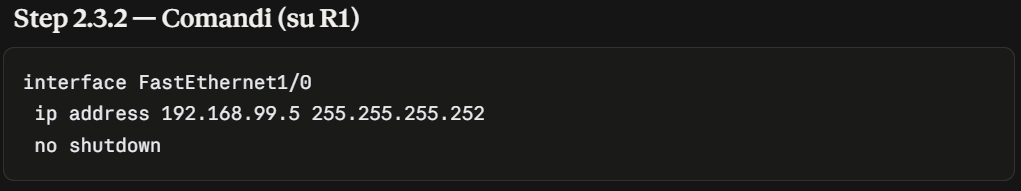
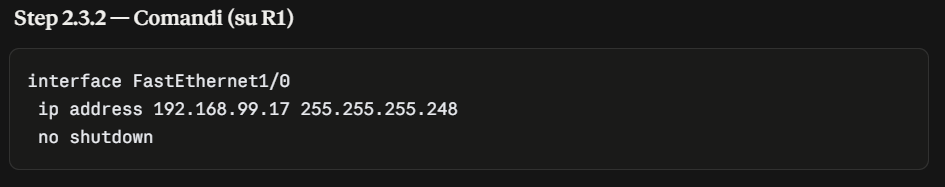
[UPD] fix piano di indirizzamento e configurate le interfacce del router verso i firewall

diff --git a/index.html b/index.html
@@ -176,16 +176,6 @@
                       <td>2</td>
                     </tr>
                     <tr class="vlan-ha">
-                      <td>R1 / R2 ↔ Cluster FortiGate (transito condiviso, via SW-TRANSIT)</td>
-                      <td>—</td>
-                      <td>192.168.99.4/29</td>
-                      <td>255.255.255.248</td>
-                      <td>— (segmento condiviso)</td>
-                      <td>.5 – .10</td>
-                      <td>192.168.99.11</td>
-                      <td>6</td>
-                    </tr>
-                    <tr class="vlan-ha">
                       <td>R1 ↔ R2 (HSRP + backup Internet)</td>
                       <td>—</td>
                       <td>192.168.99.12/30</td>
@@ -194,6 +184,16 @@
                       <td>.13 – .14</td>
                       <td>192.168.99.15</td>
                       <td>2</td>
+                    </tr>
+                    <tr class="vlan-ha">
+                      <td>R1 / R2 ↔ Cluster FortiGate (transito condiviso, via SW-TRANSIT)</td>
+                      <td>—</td>
+                      <td>192.168.99.16/29</td>
+                      <td>255.255.255.248</td>
+                      <td>— (segmento condiviso)</td>
+                      <td>.17 – .22</td>
+                      <td>192.168.99.23</td>
+                      <td>6</td>
                     </tr>
                   </tbody>
                 </table>
@@ -235,7 +235,7 @@
                 <p>
                   <strong>Aggiornamento v1.2</strong>: le due subnet separate
                   riservate a R1↔FW-1 e R2↔FW-2 sono state accorpate in
-                  un'unica subnet condivisa (192.168.99.4/29), a seguito della
+                  un'unica subnet condivisa (192.168.99.16/29), a seguito della
                   scoperta di un vincolo della piattaforma FortiGate: in un
                   cluster HA (FGCP), la configurazione delle interfacce —
                   incluso l'indirizzo IP — è sincronizzata identica su
@@ -244,10 +244,10 @@
                   segmenti fisici separati. La soluzione adottata introduce
                   uno switch dedicato (SW-TRANSIT) a cui si collegano entrambi
                   i nodi del cluster FortiGate ed entrambi i router, così
-                  l'unico IP sincronizzato del cluster (192.168.99.6) risulta
-                  raggiungibile da entrambi (R1 = .5, R2 = .9) sullo stesso
+                  l'unico IP sincronizzato del cluster (192.168.99.19) risulta
+                  raggiungibile da entrambi (R1 = .17, R2 = .18) sullo stesso
                   segmento condiviso. Degli 6 indirizzi assegnabili, 3 restano
-                  liberi (.7, .8, .10) per eventuale crescita futura.
+                  liberi (.20, .21, .22) per eventuale crescita futura.
                 </p>
               </div>
             </div>
@@ -2835,11 +2835,17 @@
                   alt="Topologia di rete aggiornata v1.1 - canvas GNS3"
                   class="obj-image"
                 />
+                <br>
+                <img
+                  src="./img/Configurazione_interfacciaa_router_verso_firewall_R2.png"
+                  alt="Topologia di rete aggiornata v1.1 - canvas GNS3"
+                  class="obj-image"
+                />
                 <p>Questi comandi vanno eseguiti su entrambi i router, rispettando nell'assegnazione dell'indirizzo IP il piano di indirizzamento.</p>
                 <br>
                 <ul class="config-explain">
                   <li><code>interface FastEthernet1/0 :</code>Entra nella configurazione della porta del router direttamente connessa al firewall</li>
-                  <li><code>ip address 192.168.0.'n' 255.255.255.'n' :</code>Assegna indirizzo IP e subnet dedicata</li>
+                  <li><code>ip address 192.168.99.'n' 255.255.255.'n' :</code>Assegna indirizzo IP e subnet dedicata</li>
                   <li><code>no shutdown :</code>Attiva la porta</li>
                 </ul>
                 <br>
